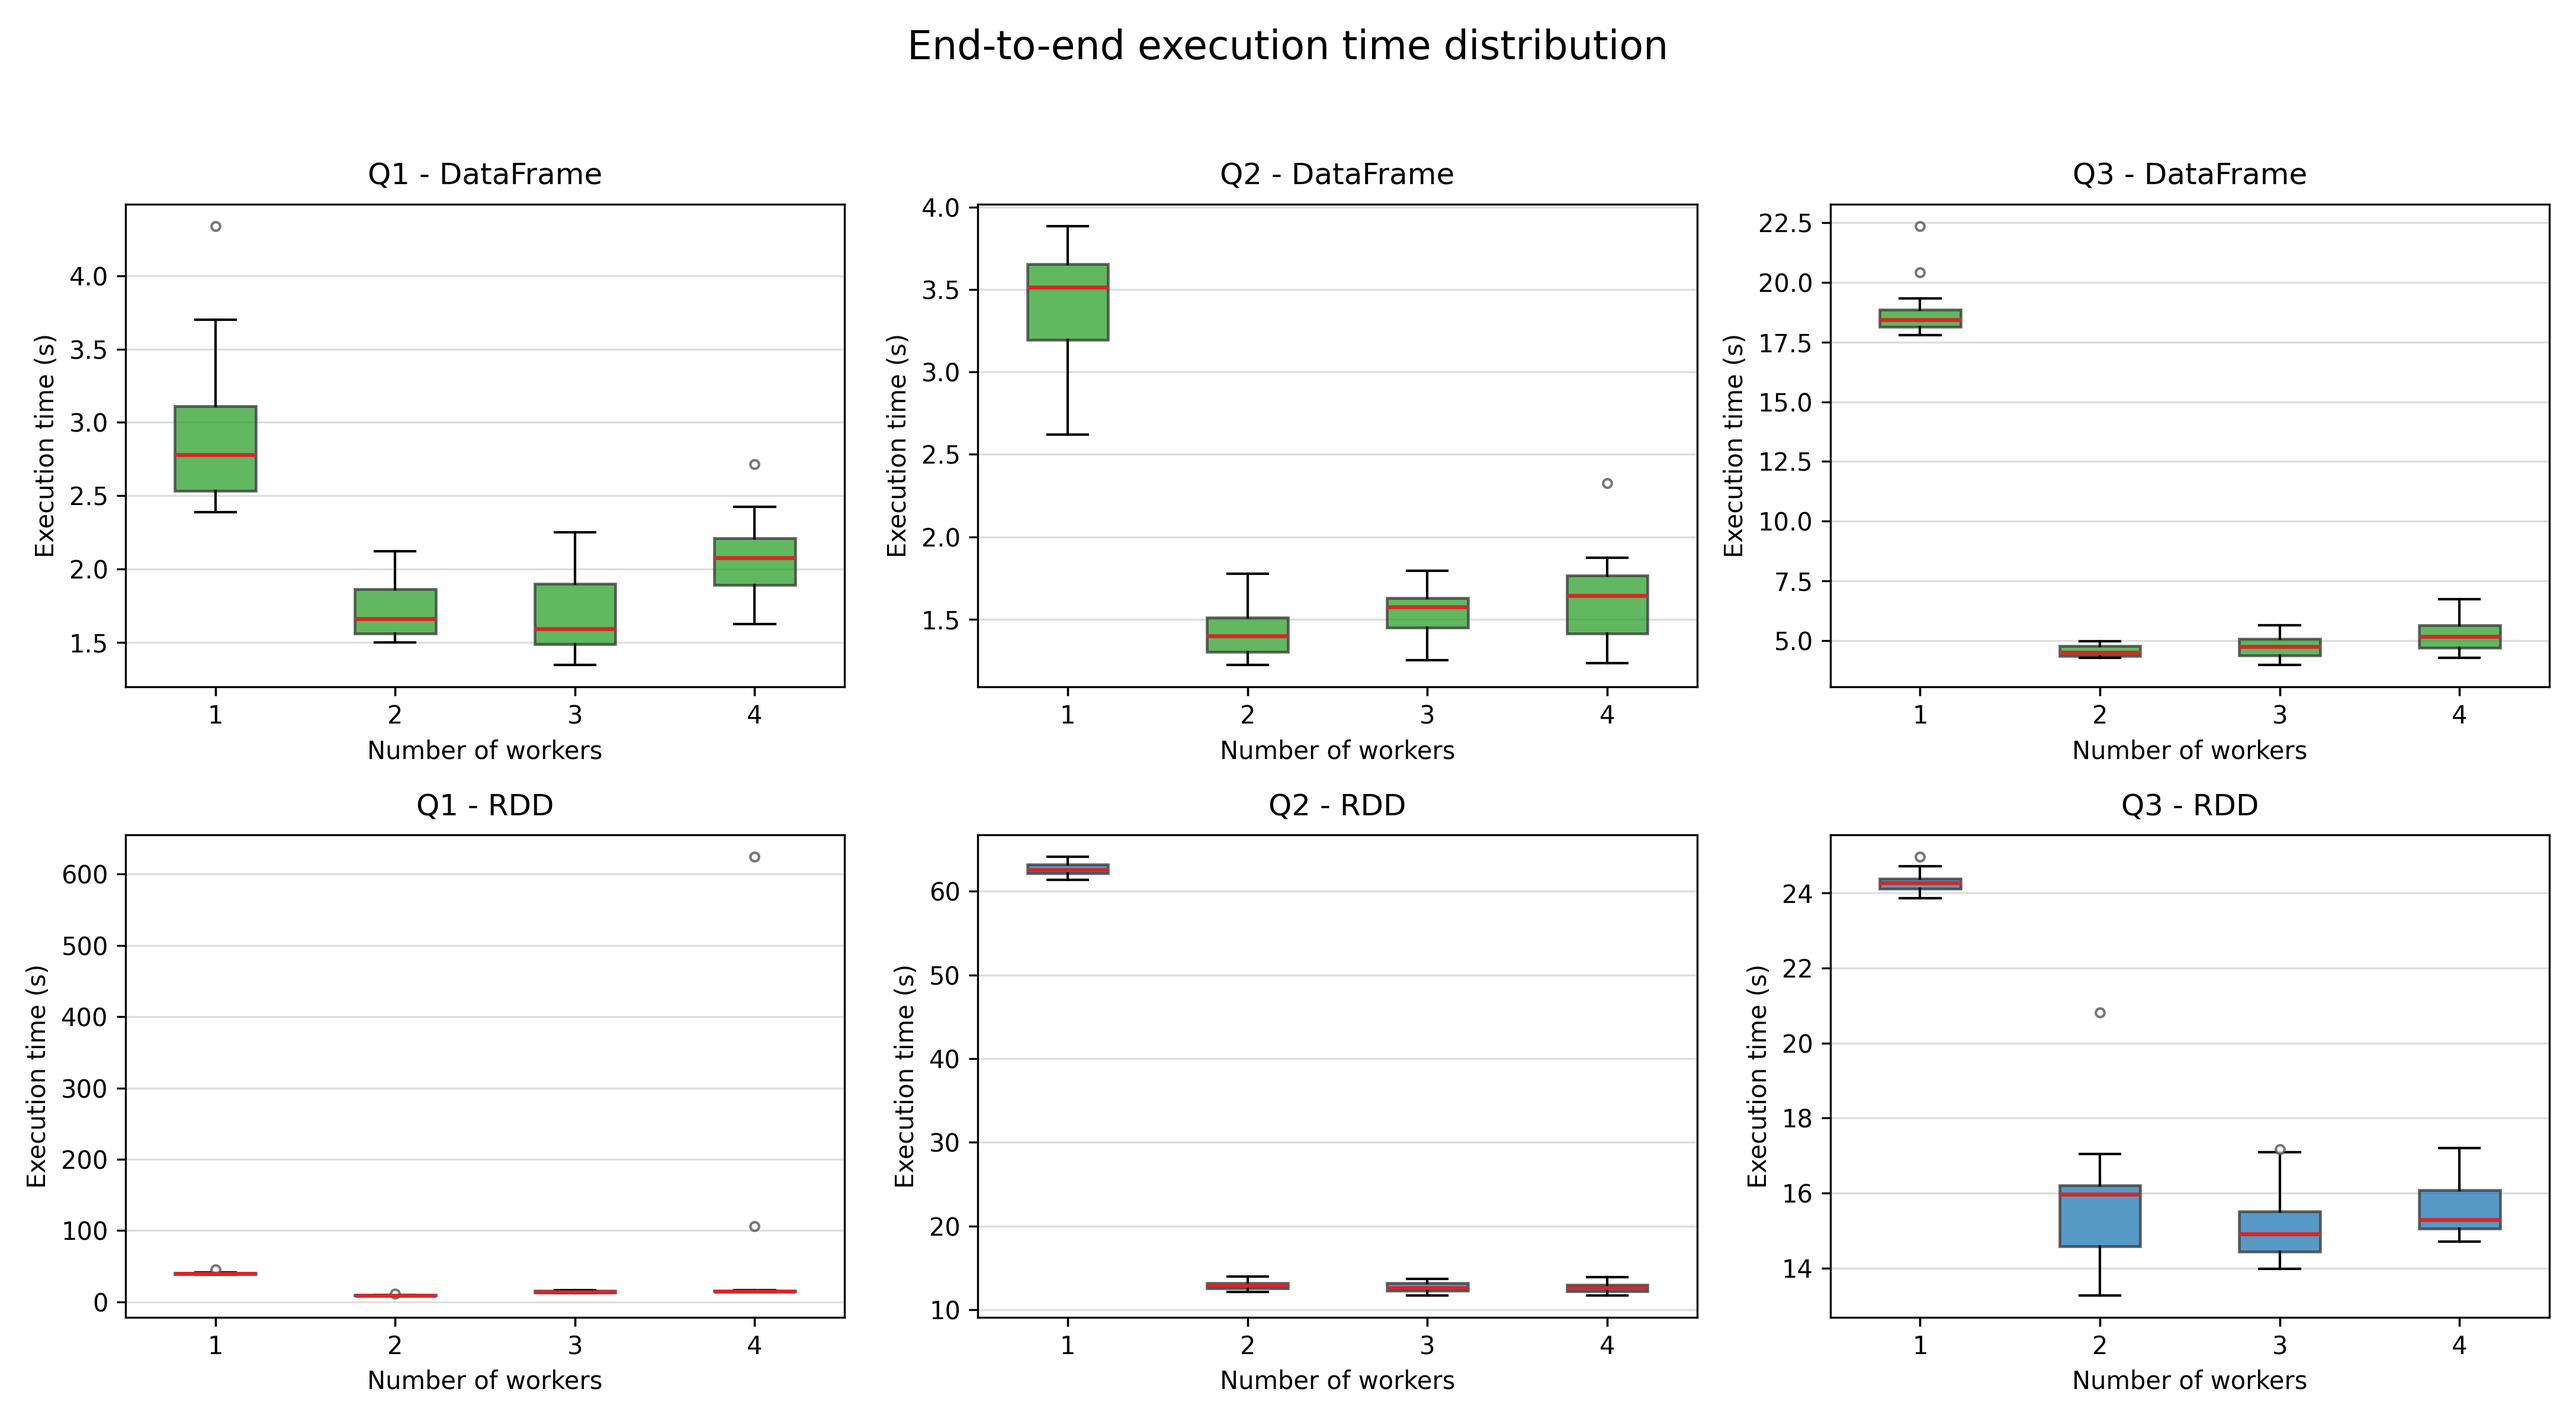
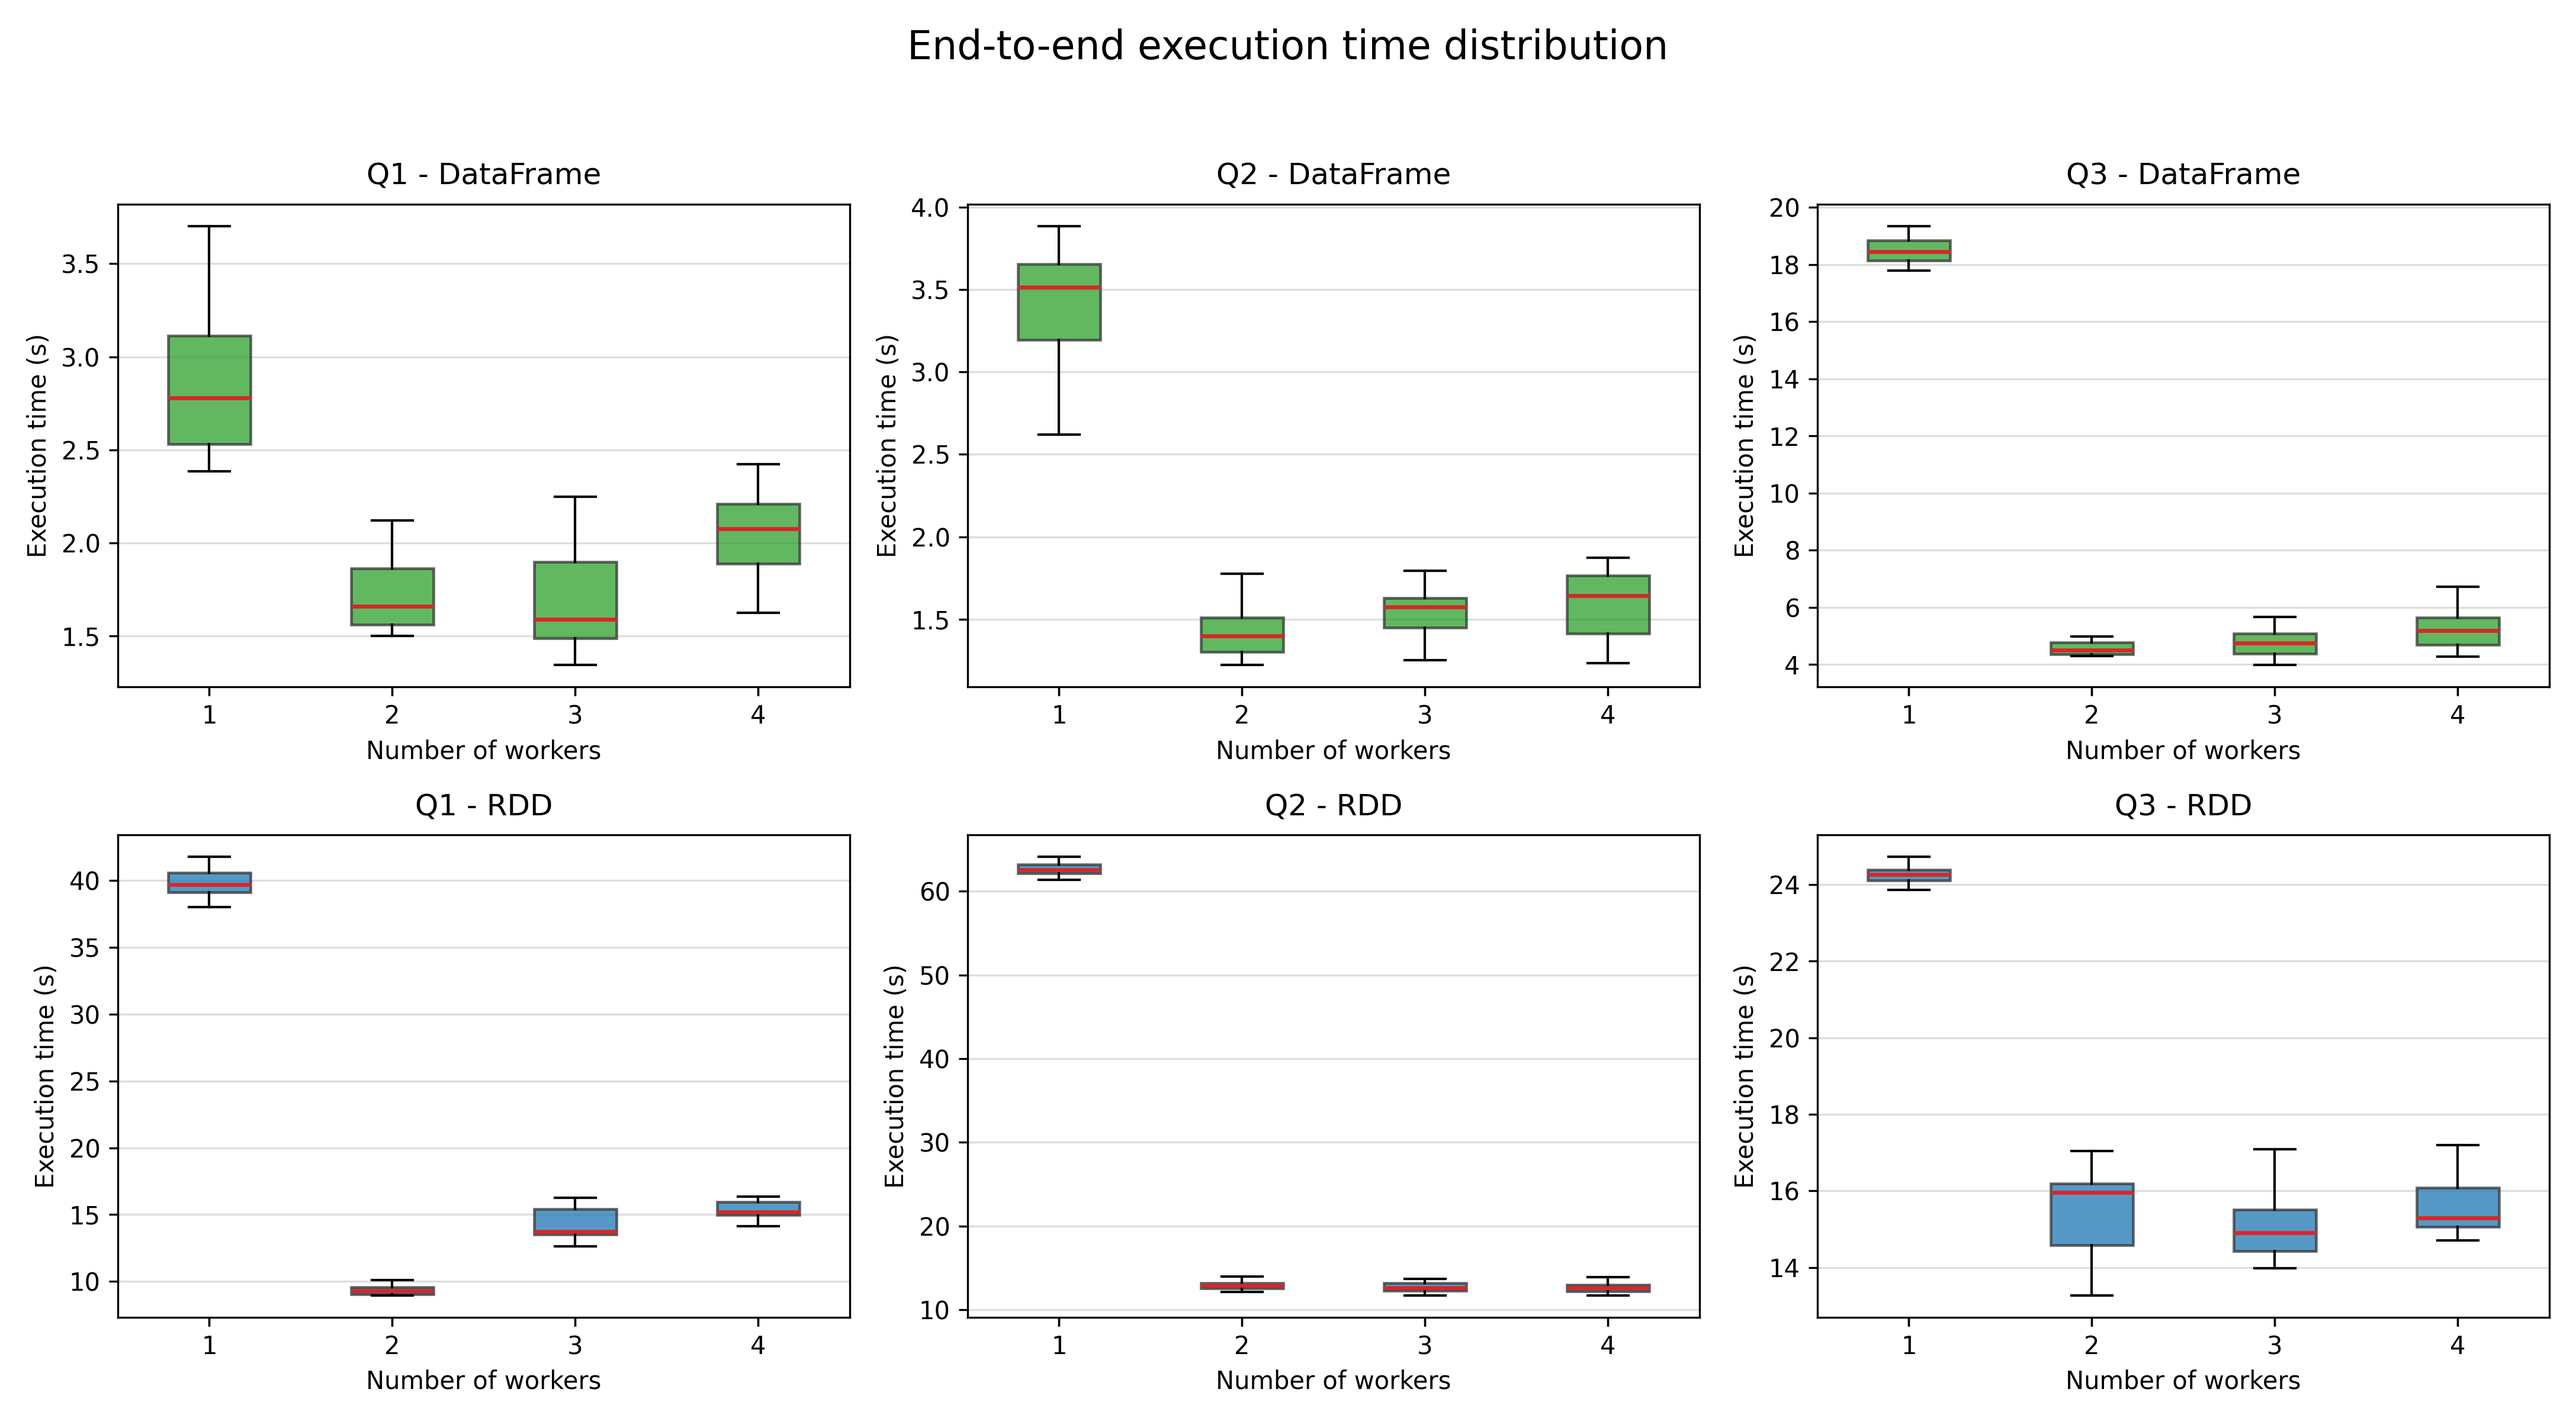
fix boxplot (outlier nascosti)

diff --git a/tools/plot_benchmark_boxplots.py b/tools/plot_benchmark_boxplots.py
@@ -121,7 +121,7 @@ def draw_boxplot(ax, data, positions, color):
         positions=positions,
         widths=0.45,
         patch_artist=True,
-        showfliers=True,
+        showfliers=False,
         medianprops={"color": "#d62728", "linewidth": 1.6},
         boxprops={"linewidth": 1.1},
         whiskerprops={"linewidth": 1.0},
